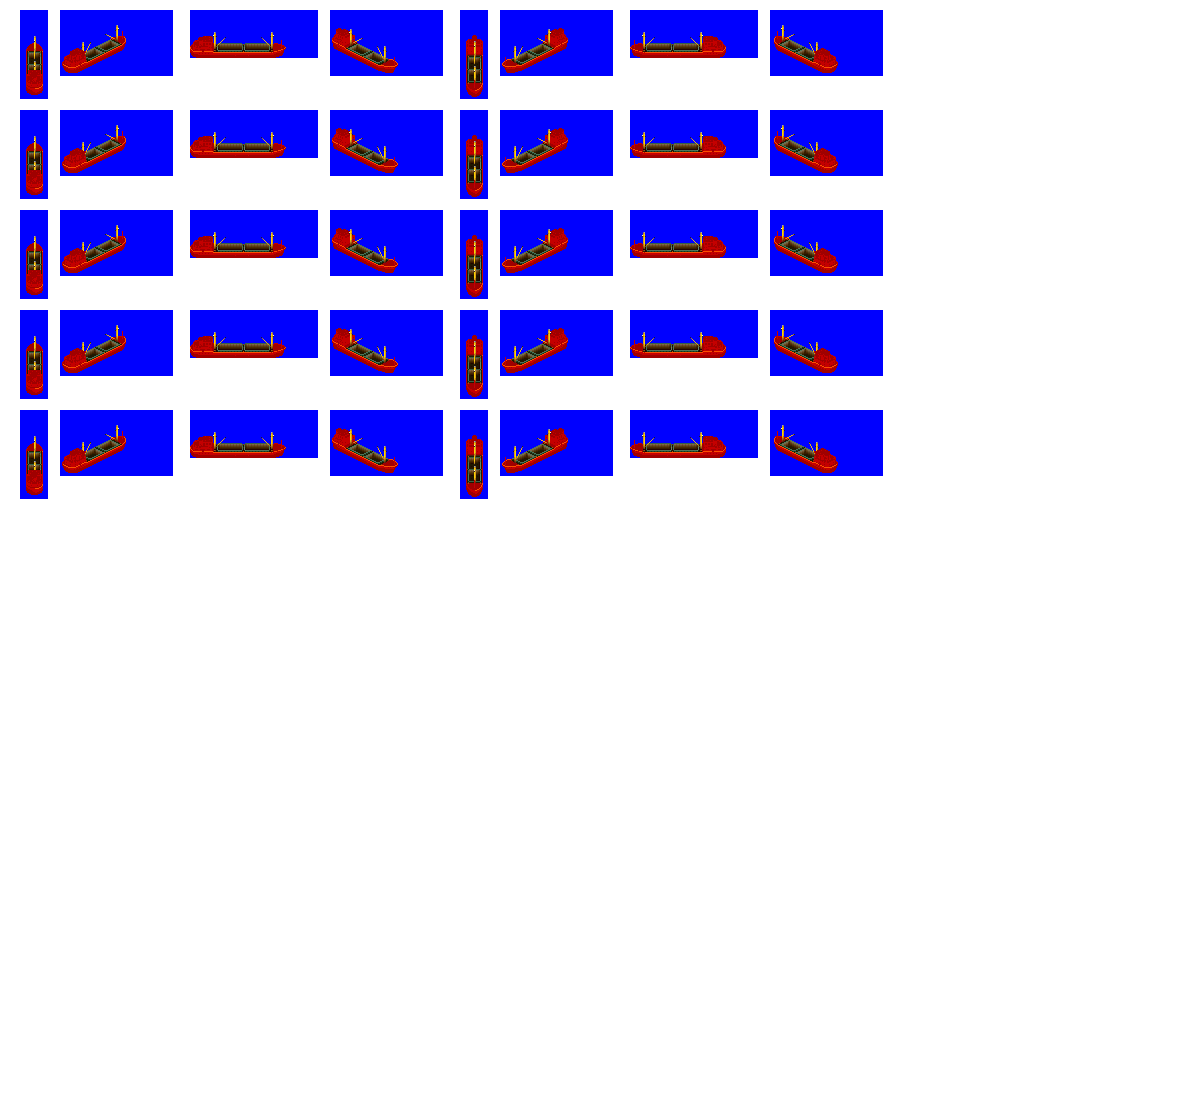
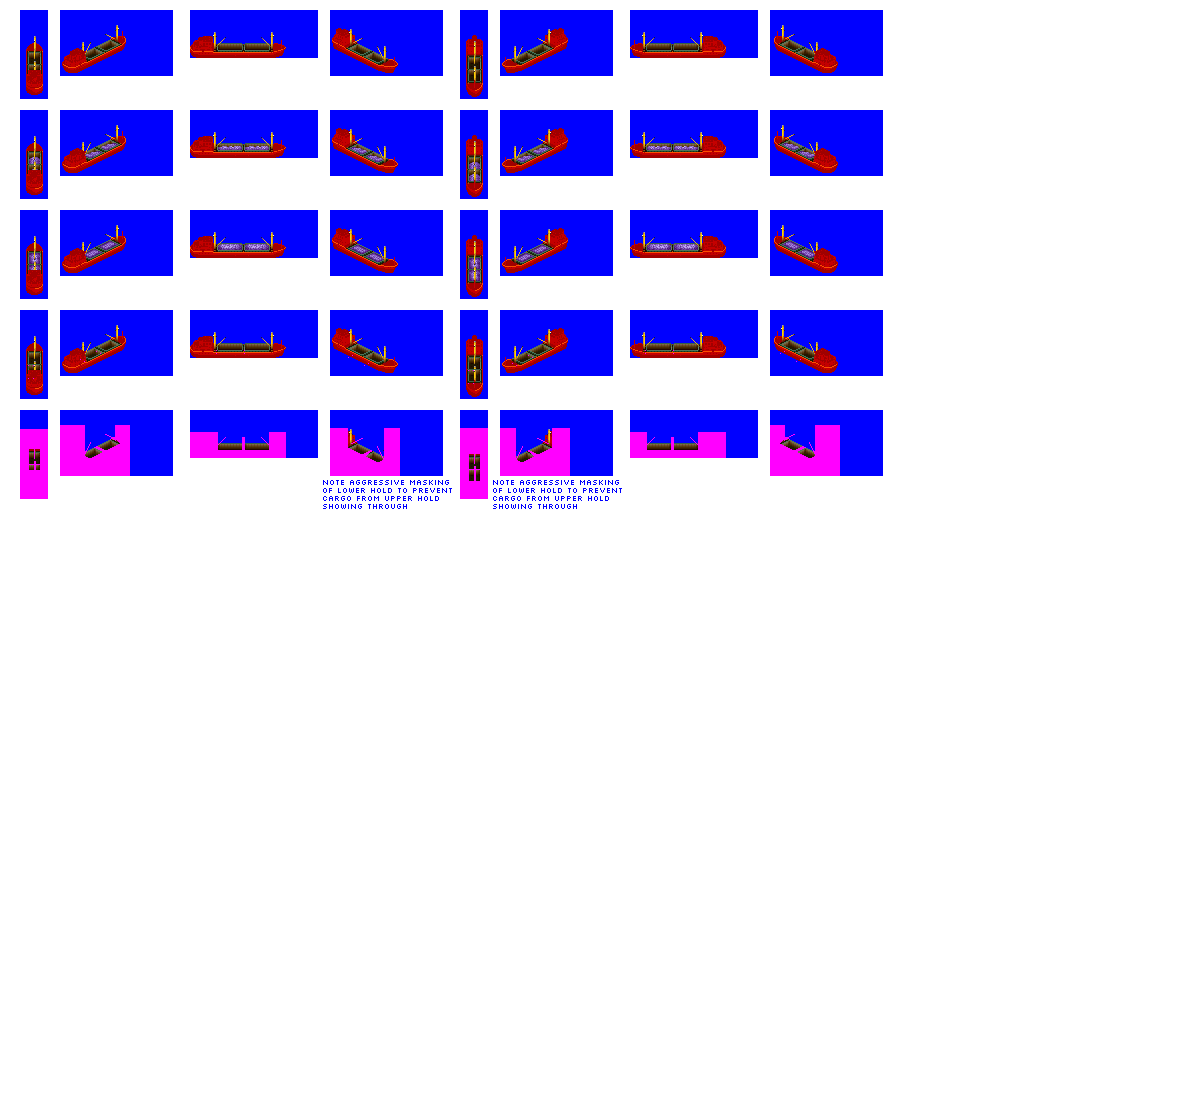
Change: sprites complete for Akraberg gen 3D freighter ship

diff --git a/src/vehicles/freighter_ships.py b/src/vehicles/freighter_ships.py
@@ -57,7 +57,8 @@ def main():
         subtype="D",
         hull="ShipHouseRear",
         effect_type="EFFECT_SPRITE_DIESEL",
-        cargo_length=8,
+        cargo_length=7,
+        sprites_complete=True,
     )
 
     ship = FreighterShip(
